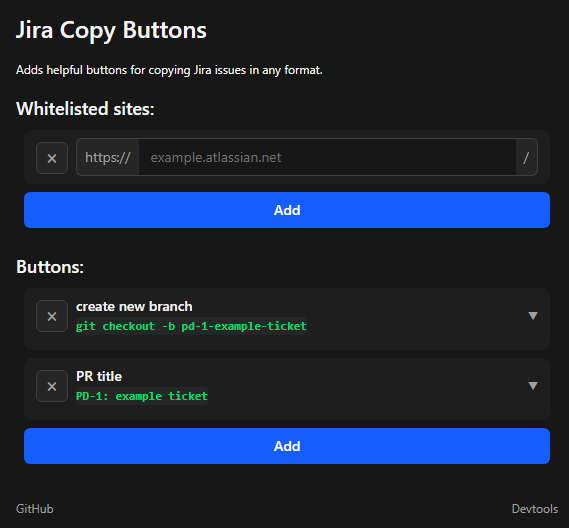
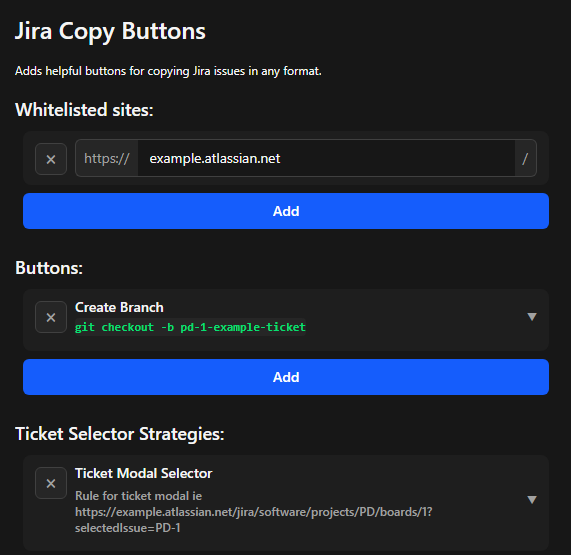
update readme

diff --git a/README.md b/README.md
@@ -14,15 +14,20 @@ A Chrome extension that adds buttons to Jira to easily copy Jira ticket identifi
 ![alt text](readme-assets/popup.png)
 
 - **Page Whitelisting**
-- **Multiple button support**
+![alt text](readme-assets/whitelisting.png)
 
-![alt text](readme-assets/buttonCustomisation.png)
+- **Multiple button support**
+![alt text](readme-assets/multipleButtonSupport.png)
 
 - **Highly customisable button configuration**
+![alt text](readme-assets/buttonCustomisation.png)
 
-![alt text](readme-assets/devTools.png)
+- **Highly customisable ticket selector strategies**
+![alt text](readme-assets/ticketSelector1of2.png)
+![alt text](readme-assets/ticketSelector2of2.png)
 
 - **Powerful developer mode**
+![alt text](readme-assets/devTools.png)
 
 ## Installation
 
